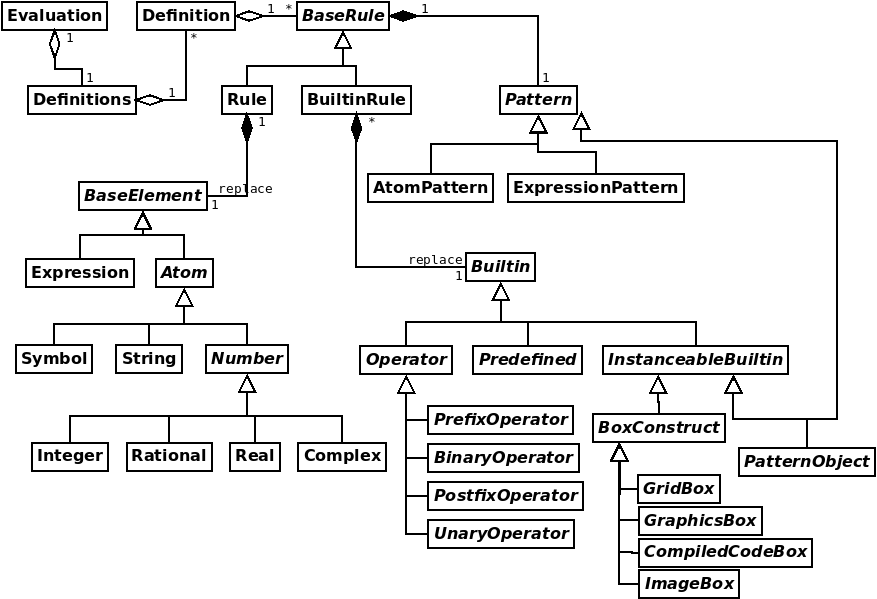
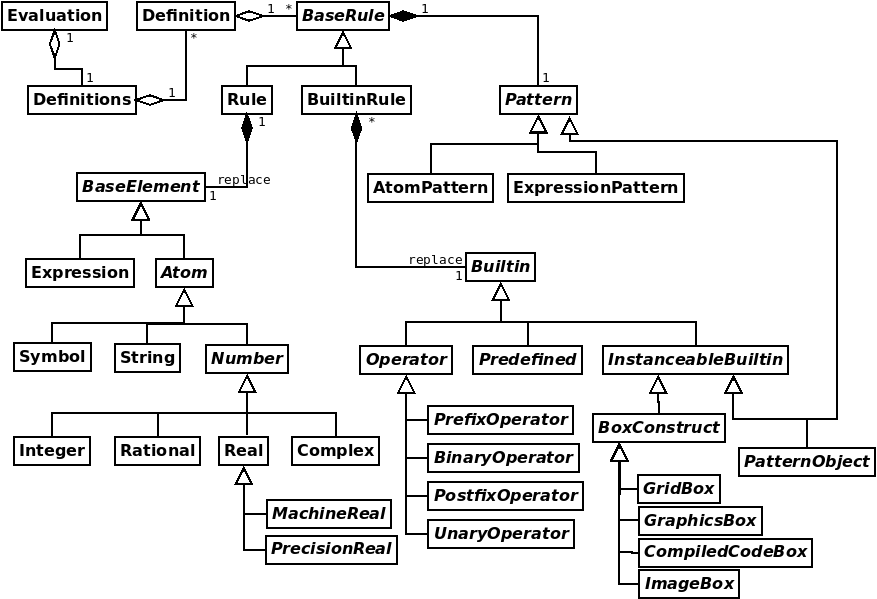
Add Expression and BaseElement
add to UML diagram PrecisionReal and MachineReal

diff --git a/docs/extending/code-overview/object-classes.rst b/docs/extending/code-overview/object-classes.rst
@@ -14,11 +14,13 @@ Class Diagram for Some of the Classes
 
 Below is a `UML 2.5 Class diagram
 <https://creately.com/blog/diagrams/class-diagram-tutorial/>`_ for some
-of the classes described below
+of the classes described below:
 
 
 .. image:: /images/uml-diagram.png
   :alt: UML 2.5 Class diagram
+
+A Class name that begins with ``Base`` is a `Virtual class <https://en.wikipedia.org/wiki/Virtual_class>`_.
 
 .. index:: Atom, AtomQ
 
@@ -92,28 +94,21 @@ Some examples:
      = True
 
 
+BaseElement Class
+=================
+
+An Mathics Expression is the main data structure which evalution is
+performed on. An expression is in general a tree.  The nodes of this
+tree come from the ``BaseElement`` class. Note that leaf nodes in
+addition to being a ``BaseElement`` also sort of ``Atom`` as well. In other words,
+an ``Atom`` is a subclass of ``BaseElement``.
+
+The other subclass of BaseElement is an ``Expression``.
+
+Note as the prefix ``Base`` implies, a BaseElement is a virtual class.
+
 
 .. index:: Symbol
-
-Symbol Class
-============
-.. index:: Symbol
-
-Just above the ``Atom`` class is the ``Symbol`` which is an atomic element of an ``Expression``.
-See `Atomic Elements of Expressions <https://reference.wolfram.com/language/guide/AtomicElementsOfExpressions.html>`_.
-
-As born from the parser, Symbols start off like Lisp
-Symbols. Following WL, Mathics has about a thousand named characters,
-some common ones like "+", "-", and some pretty obscure ones. After
-parsing, each of these can be incorporated into a Symbol object. But
-in the evaluation process in conjuction with the ``Definitions``
-object that is in the evaluation object, these symbols get bound to
-values in a scope, and then they act more like a programming language
-variable. The Symbol class described here has fields and properties
-that you of the kind that you'd expect a variable in a programming
-language to have.
-
-.. index:: Builtin
 
 Builtin class
 =============
@@ -204,6 +199,18 @@ In the current implementation, the ``Definitions`` object stores ``Definition`` 
 
 .. index:: Predefined
 
+Expression Class
+================
+
+An Expression object the main object that we evaluate over. It
+represents an M-expression formed from input.  In contrast to an
+object of type ``Atom`` which are the leaves of the Expression object,
+an Expression object is some sort of structured node that as in
+Mathics itself, has ``Head`` and a ``Rest`` components where the head
+contains some sort of function designator.
+
+.. index:: Expression
+
 Predefined Class
 ================
 
@@ -254,8 +261,24 @@ class. For example:
 
 The ``evaluate()`` function above is called to get the value of variable ``$ByteOrdering``.
 
-.. index:: Builtin
 
+Symbol Class
+============
+.. index:: Symbol
+
+Just above the ``Atom`` class is the ``Symbol`` which is an atomic element of an ``Expression``.
+See `Atomic Elements of Expressions <https://reference.wolfram.com/language/guide/AtomicElementsOfExpressions.html>`_.
+
+As born from the parser, Symbols start off like Lisp
+Symbols. Following WL, Mathics has about a thousand named characters,
+some common ones like "+", "-", and some pretty obscure ones. After
+parsing, each of these can be incorporated into a Symbol object. But
+in the evaluation process in conjuction with the ``Definitions``
+object that is in the evaluation object, these symbols get bound to
+values in a scope, and then they act more like a programming language
+variable. The Symbol class described here has fields and properties
+that you of the kind that you'd expect a variable in a programming
+language to have.
 
 .. index:: Operator
 
